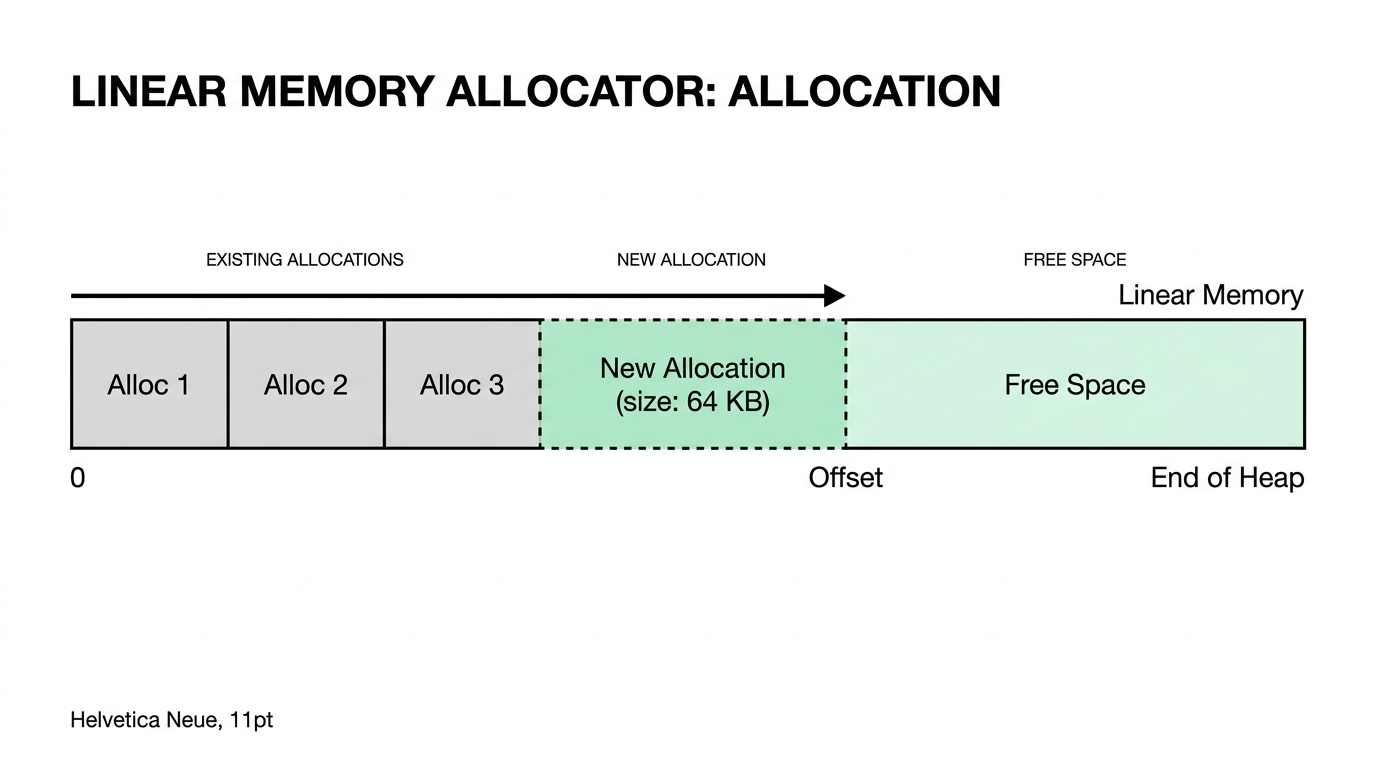
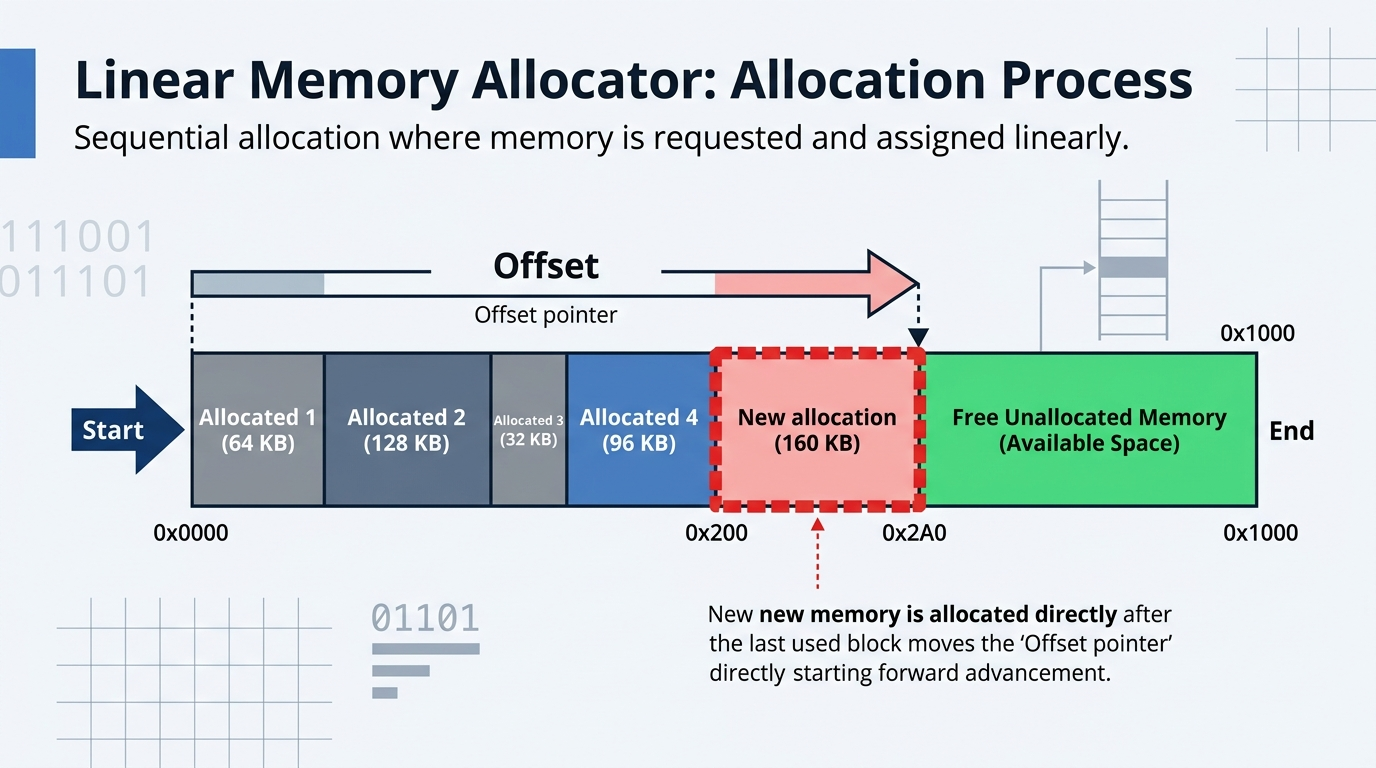
Revert "docs: streamline README explanations and update diagrams with minimalist aesthetic"
This reverts commit 22b56b124a4cca20028401d10c866dddecf25a6f.

diff --git a/README.md b/README.md
@@ -12,169 +12,192 @@
 &nbsp;&nbsp;&nbsp;&nbsp;&nbsp;&nbsp;&nbsp;&nbsp;[Space complexity](#space-complexity)  <br/> 
 &nbsp;[Summary](#summary)  <br/> 
 &nbsp;[Last thoughts](#last-thoughts)  <br/> 
-&nbsp;[Future work](#future-work)  <br/> 
-
 # Introduction
-Dynamic memory allocation on the heap via standard `malloc` and `free` is flexible but carries performance overhead. This project implements custom C++ memory allocators that manage pre-allocated memory arenas to achieve faster, more predictable allocations. The goal is to understand how common allocators work, what trade-offs they offer, and compare their performance.
+When applications need more memory this can be allocated in the heap (rather than in the stack) in _runtime_. This memory is called 'dynamic memory' because it can't be known at compile time and its need changes during the execution. Our programs can ask for dynamic memory usin 'malloc'. Malloc returns an address to a position in memory where we can store our data. Once we're done with that data, we can call 'free' to free the memory and let others processes use it.
+
+For this project I've implemented different ways to manage by ourselves dynamic memory in C++.This means that instead of using native calls like 'malloc' or 'free' we're going to use a custom memory allocator that will do this for us but in a more efficient way.
+The goal, then, is to understand how the most common allocators work, what they offer and compare them to see which one performs better.
 
 # Build instructions
 
-```bash
-git clone https://github.com/Sudheendra18/custom-memory-allocator.git
-cmake -S . -B build 
+```c
+git clone https://github.com/Sudheendra18/memory-allocators.git
+cmake -S memory-allocator -B build 
 cmake --build build
 ```
 
 # What's wrong with Malloc?
-* **General purpose:** Designed to handle any allocation size (from 1 byte to gigabytes), leading to bookkeeping overhead and fragmentation.
-* **Slow syscalls:** When expanding the heap, `malloc` transitions between user and kernel mode (`brk`/`mmap`), which is slow and non-deterministic.
+* **General purpose**: Being a general purpose operation means that it must work in all cases (from 1byte to 1GB or more...). For this reason the implementation is not as efficient as it could be if the needs were more specific.
+* **Slow**: Sometimes, when allocating memory, malloc needs to change from user to kernel mode to get more memory from the system. When this happens, malloc turns out to be super slow!
 
 # Custom allocators
-Because programs often have predictable allocation patterns, custom allocators achieve superior performance by pre-allocating large memory arenas:
-* **Fewer Mallocs:** Pre-allocate once to eliminate runtime system calls.
-* **Specialized Data Structures:** Use lightweight tracking structures (offsets, intrusive linked lists) tailored to specific workloads.
-* **Domain Constraints:** Imposing constraints (e.g., fixed sizes, LIFO order) enables fast $O(1)$ operations.
+Because every program has specific needs, it makes no sense to use a general purpose allocator. We can choose the right allocator that works best for us. This way we can increase our **performance**.
+
+In general, custom allocators share some features:
+* **Low number of mallocs**: Any custom allocator tries to keep the number of mallocs low. To do that, they malloc _big chunks of memory_ and then, they manage this chunk internally to provide smaller allocations.
+* **Data structures**: Secondary data structures like _Linked Lists_, _Trees_, _Stacks_ to manage these big chunks of memory. Usually they are used to keep track of the allocated and/or free portions of memory to _speed up_ operations.
+* **Constraints**: Some allocators are very specific and have constraints over the data or operations that can be performed. This allows them to achieve a high performance but can only be used in some applications. 
 
 ## Linear allocator
-The simplest allocator. Maintains an offset pointer at the beginning of the memory arena and increments it sequentially for each allocation.
+This is the simplest kind of allocator. The idea is to keep a pointer at the first memory address of your memory chunk and move it every time an allocation is done. In this allocator, the internal fragmentation is kept to a minimum because all elements are sequentially (spatial locality) inserted and the only fragmentation between them is the alignment.
 
 ### Data structure
-Requires only an offset pointer to track the current allocation boundary. No per-allocation metadata or headers are needed.
+This allocator only requires a pointer (or an offset) to tell us the position of the last allocation. It doesn't require any extra information or data structure.
 
 ![Data structure of a Linear Allocator](docs/images/linear1.png)
 
 _Complexity: **O(1)**_
 
 ### Allocate
-Simply moves the offset pointer forward by the requested allocation size.
+Simply move the pointer (or offset) forward.
 
 ![Allocating memory in a Linear Allocator](docs/images/linear2.png)
 
 _Complexity: **O(1)**_
 
 ### Free
-Individual allocations cannot be freed. The entire memory arena is reset all at once in $O(1)$.
-
----
+Due to its simplicity, this allocator doesn't allow specific positions of memory to be freed. Usually, all memory is freed together.
 
 ## Stack allocator
-A LIFO (Last-In, First-Out) allocator. Similar to the Linear Allocator, but allows allocations to be rolled back in reverse order.
+This is a smart evolution of the Linear Allocator. The idea is to manage the memory as a Stack. So, as before, we keep a pointer to the current memory address and we move it forward for every allocation. However, we also can move it backwards when a free operation is done. As before, we keep the spatial locality principle and the fragmentation is still very low.
 
 ### Data structure
-Maintains an offset pointer tracking the top of the stack. Each allocation is preceded by a small header containing block size and padding metadata.
+The allocator only needs a pointer (or offset) to keep track of the current top of the stack. Rollback points are stored outside the managed block, so allocations do not need a per-allocation header in the returned memory. This avoids wasting padding space and keeps the user-facing memory contiguous.
 
 ![Data structure of a Stack Allocator](docs/images/stack1.png)
 
-_Complexity: **O(N)** space overhead for headers_
+_Complexity: **O(N*H) --> O(N)**_ where H is the Header size and N is the number of allocations
 
 ### Allocate
-Advances the offset pointer forward and stores an allocation header right before the returned memory block.
+Simply move the pointer (or offset) forward and place a header right before the memory block indicating its size.
 
 ![Allocating memory in a Stack Allocator](docs/images/stack2.png)
 
 _Complexity: **O(1)**_
 
 ### Free
-LIFO rollback. Reads the block header and restores the offset pointer back to the previous allocation boundary.
+Free is a LIFO rollback. The allocator restores the last saved offset and does not need to inspect any header stored in the allocation itself.
 
 ![Freeing memory in a Stack Allocator](docs/images/stack3.png)
 
 _Complexity: **O(1)**_
 
----
-
 ## Pool allocator
-Splits a memory arena into equal, fixed-size chunks. It offers fast allocations and deallocations with zero internal fragmentation for uniform objects.
+A Pool allocator is quite different from the previous ones. It splits the big memory chunk in smaller chunks of the same size and keeps track of which of them are free. When an allocation is requested it returns the free chunk size. When a freed is done, it just stores it to be used in the next allocation. This way, allocations work super fast and the fragmentation is still very low.
 
 ![Splitting scheme in a Pool Allocator](docs/images/pool1.png)
 
 ### Data structure
-Tracks free blocks using a singly linked list. To eliminate extra memory overhead, this list is **intrusive**—the `NEXT` pointers are stored directly inside the unused memory chunks themselves.
+To keep track of the free blocks of memory, the Pool allocator uses a Linked List that links the address of each free memory block. 
 
 ![Linked List used in a Pool Allocator](docs/images/pool2.png)
+
+To reduce the space needed, this **Linked List is stored in the same free blocks** (smart right?). However, this set the constraint that the data chunks must be at least as big as our nodes in the Linked List (so that, we can store the Linked List in the free memory blocks).
+
 ![In memory Linked List used in a Pool Allocator](docs/images/pool3.png)
 
-_Constraint: Chunk size must be at least as large as a pointer (`sizeof(void*)`)._  
-_Complexity: **O(1)**_
+_Complexity: **O(1)**_ 
 
 ### Allocate
-Pops the first free block from the head of the linked list.
+An allocation simply means to take (pop) the first free block of the Linked List.
 
 ![Allocation in a Pool Allocator](docs/images/pool4.png)
+
+The linked list doesn't have to be sorted. Its order its determined by the how the allocations and free are done.
+
 ![Random State of a Linked List in a Pool Allocator](docs/images/pool5.png)
 
 _Complexity: **O(1)**_
 
 ### Free
-Pushes the freed block back onto the head of the linked list.
+Free means to add (push) the freed element as the first element in the Linked List.
 
 _Complexity: **O(1)**_
 
----
-
 ## Free list allocator
-A general-purpose allocator that imposes no restrictions on allocation order, deallocation order, or block sizes.
+
+This is a general purpose allocator that, contrary to the others, doesn't impose any restriction. It allows allocations and deallocations to be done in any order. For this reason, its performance is not as good as its predecessors. Depending on the data structure used to speed up this allocator, there are two common implementations: one that uses a Linked List and one that uses a Red black tree.
 
 ### Linked list data structure
-Maintains an address-sorted linked list of free memory blocks and their sizes. Each allocated block is prefixed with an allocation header to track size and alignment.
+As the name says, this implementation uses a Linked List to store, in a sorted manner, the start address of each free contiguous block in memory and its size.
+When an allocation is requested, it searches in the linked list for a block where the data can fit. Then it removes the element from the linked list and places an allocation header (used on deallocations) right before the data (as we did in the Stack allocator).
+On deallocations, we get back the allocation header to know the size of the block that we are going to free. Once we free it we insert it into the sorted linked list and we try to merge contiguous memory blocks together creating bigger blocks.
+
+*Notes: My implementation has some constraints on the size and alignment of the data that can be allocated using **this** allocator. For example, the minimum size that can be allocated should be equals or bigger than the size required of a Free Node. Otherwise, we would be wasting more space in meta-data than in real data (Something similar happens with the alignment) These constraints are related with my implementation. A better implementation would probably handle these cases. I decided not to do so because performance would be drastically affected. In these cases its probably better to use a different allocator.*
 
 ![Data structure in a Free list Allocator](docs/images/freelist_seq1.png)
 
-_Complexity: **O(M)** space overhead where M is the number of allocated blocks._
+_Complexity: **O(N*HF + M*HA)--> O(M)**_ where N is the number of free blocks, HF is the size of the header of free blocks, M the number of allocated blocks and HA the size of the header of allocated blocks
+
 
 ### Linked list Allocate
-Searches the free list using **First-Fit** (first block that fits) or **Best-Fit** (smallest block that fits, minimizing fragmentation). The selected block is split, returning the requested size and keeping the remainder in the free list.
+ When an allocation is requested, we look for a block in memory where our data can fit. This means that we have to iterate our linked list until we find a block that has a size equal or bigger than the size requested (it can store this data plus the allocation header) and remove it from the linked list. This would be a **first-fit** allocation because it stops when it finds the first block where the memory fits. There is another type of search called **best-fit** that looks for the free memory block of smaller size that can handle our data. The latter operation may take more time because is always iterating through all elements but it can reduce fragmentation.
 
 ![Allocating in a Free list Allocator](docs/images/freelist_seq2.png)
 
-_Complexity: **O(N)** where N is the number of free blocks._
+_Complexity: **O(N)**_ where N is the number of free blocks 
 
 ### Linked list Free
-Reads the block header, inserts the block back into the address-sorted free list, and merges adjacent contiguous free blocks (**Coalescence**) in $O(1)$ to prevent fragmentation.
+First of all we get back the information about the allocation from the header. Then, we iterate the Linked List to intert the free block in the right position (because is sorted by address). Once we've inserted it, we merge contiguous blocks. We can merge in _O(1) because our Linked List is sorted. We only need to look at the previous and next elements in the linked list to see if we can merge this contiguous blocks. This operation of merging contiguous memory blocks to create bigger blocks is called _Coalescence_
+If we used instead a Sorted Linked List of free and allocated blocks, the complexity would be *O(1)* but the allocation compleixity would be *O(N) where N is the number of free and allocated blocks and space complexity would be much higher. When we free a memory block we also look at the previous and next blocks to see if we can merge them into one bigger block. 
 
 ![Freeing in a Free list Allocator](docs/images/freelist_seq3.png)
 
-_Complexity: **O(N)** search + **O(1)** merge._
+_Complexity: **O(N)**_ where N is the number of free blocks
 
 ### Red black tree data structure
-Using a Red-Black Tree keyed by size reduces search complexity from $O(N)$ to $O(\log N)$ while enabling fast Best-Fit allocation. An auxiliary doubly linked list maintains address order for $O(1)$ coalescence.
+The purpose of using a Red black tree is to speed up allocations and deallocations. In the Linked List (or sequential) implementation every time an operation was made we needed to iterate the Linked List. This was O(N) in all cases.
 
----
+Using Red Black trees we can reduce its complexity to O(log N) while keeping space complexity quite low because the tree data is stored inside the free memory blocks. In addition, this structure allows a **best-fit** algorithm to be used, reducing the fragmentation and keeping performance. However, an additional sorted Doubly Linked list is required to store allocated and free elements in order to be able to do coalescence operations in O(1).
+This implementation is the most common and most used in real systems because it offers high flexibility while keeping performance very high.
 
 # Benchmarks
-Benchmarked with varying operation counts using a fixed block size of 4,096 bytes.
+Now its time to make sure that all the effort in designing and implementing custom memory allocators is worth. 
+I've made several benchmarks with different block sizes, number of operations, random order, etc. The time benchmark measures the time execution that takes initializing the allocator 'Init()' (malloc big chunk, setup additional data structures...) and until the last operation (allocation or free) is performed.
+
+Here I'm only showing what I believe is relevant for the goal of this project.
 
 ## Time complexity
-* **Malloc:** Slowest allocator ($O(N)$) due to kernel transitions and general-purpose bookkeeping.
-* **Free List:** ~3x faster than malloc while remaining general-purpose ($O(N)$).
-* **Pool, Stack, Linear:** Exhibit near-instantaneous runtime. (Initial slopes reflect one-time `Init()` arena setup).
+* **Malloc** is without doubt the **worst allocator**.Due to its general and flexible use. _**O(n)**_
+* **Free list allocator** is **A much better choice than malloc** as a general purpose allocator.It uses Linked List to speed up allocations/free. It's about three times better than malloc _**O(n)**_
+
+The next allocator are even better BUT they are no longer general purpose allocators. They **impose restrictions** in how we can use them:
+* **Pool allocator** forces us to always allocate the same size but then we can allocate and deallocate in any order. The complexity of this one is slightly better than the free list allocator, wait what? The complexity of the pool allocator was supposed to be constant not linear! And that's true. What its happening here is that the initialization of the additional data structure (the linked list) is _**O(n)**_. It has to create all memory chunks in then linked them in the linked list. This operation is hiding the truly complexity of the allocation and free operations that is _**O(1)**_.  So, take into account to initialize the Pool allocator (and all the allocators in general) before to avoid this kind of behaviors.
+* **Stack allocator** can allocate any size, but deallocations must be done in a LIFO fashion with a _**O(1)**_ complexity. In the chart the complexity is not completely constant due to init function that has to allocate the first big chunk of memory, similarly as before in the pool allocator.
+* **Linear allocator** is the simplest and the best performant allocator with a _**O(1)**_ complexity but its also the most restrictive because single free operations are not allowed. As with the stack, the complexity doesn't look completely constant due to the init function.
 
 ![Time complexity of different allocators](docs/images/operations_over_time.png)
 
-Excluding the one-time `Init()` setup clearly demonstrates true constant $O(1)$ runtime for Linear, Stack, and Pool allocators:
+In the next chart we can see that if we don't include the Init() function in the benchmark, the overall execution time is reduced and as a consequence we can effectively see that the Linear, Stack and Pool allocators are constant while malloc and free list are clearly linear. The free list implementation using black tree can reduce the complexity to _**O(log n)**_ and therefore its position in the chart would be between the pool allocator and the free list.
 
-![Time complexity of different allocators without Init](docs/images/operations_over_time_no_init.png)
+![Time complexity of different allocators](docs/images/operations_over_time_no_init.png)
+
+_Note: The time complexity (in general) scales following a linear fashion regarding the size of the allocation request.
 
 ## Space complexity
-All allocators scale linearly ($O(N)$) with total requested memory, as metadata headers represent a negligible fraction of large allocations.
+As we can see, even that the space complexity for each allocator is slightly different(due to constants), in the end, all of them have the same space complexity **O(N)**. It is very clear, then, why when denoting big O, constants can be ignored: because its weight in the overall equation is very low when N grows.
 
 ![Space complexity of different allocators](docs/images/operations_over_space.png)
 
----
-
 # Summary
-* **Linear Allocator:** Best when all data has a common lifetime and can be freed together (e.g., per-frame game data).
-* **Stack Allocator:** Best for scoped or nested allocations freed in reverse LIFO order.
-* **Pool Allocator:** Best for high-frequency objects of uniform size (e.g., game entities, particles).
-* **Free List Allocator:** General-purpose allocator for arbitrary sizes and lifetimes where `malloc` is too slow.
+This is a brief summary describing when you should use each allocator. From more restrictive and efficient allocators to less efficient and general.
+
+* **Linear allocator**. If your data does not follows any specific structure. However, there's a common behavior in time: all data "expires" after a certain time and then is no longer useful and thus can be freed. Think about games for example, you can allocate data in one frame using a this allocator and free all data at the start of the next frame.  
+* **Stack allocator**. The same as the Linear allocator but think if it useful to free elements in a LIFO fashion.
+* **Pool allocator**. Your data has definitely a structure. All elements of your data have the same size. This is your choice, fast and no fragmentation.
+* **Buddy allocator** (_Not implemented here_). Your data is organized in exponential sizes power-of-two (1,2,4,8,16,32...). This allocator performs extremely well when data is structure in that way, being fast and wasting little space.
+* **Free list allocator**. No structure or common behavior. This allocator allows you to allocate and free memory as you wish. This is a general purpose allocator that works much better than malloc, but is not as good as the previous allocators, given its flexibility to work in all situations.
 
 # Last thoughts
-* Avoid dynamic memory allocations during performance-critical loops whenever possible.
-* Specific-purpose allocators (**Linear, Stack, Pool**) drastically outperform general-purpose ones (**Free List, Malloc**).
-* Choose the most constrained allocator that fits your data access patterns.
+* Avoid dynamic memory as much as possible. Its behavior is unexpected and a source of problems
+* If you are worried about performance and your application uses dynamic memory, think about using a custom allocator instead of malloc
+* Try to understand your data and its behavior to choose the right allocator for you. Specific allocators (that impose restrictions on how we can structure/use our data) are far more better than the generic ones. We saw a huge gap between the specific purpose allocator: **Linear, Stack and Pool** and the general purpose: **Free list and Malloc**
+* Always choose a less restrictive (or more general) allocator if unsure. If you later see that your data is structured you can always change to use a more restrictive one.
 
 # Future work
-* Implement 8-byte alignment optimization to eliminate headers.
-* Implement a Red-Black Tree Free List allocator ($O(\log N)$).
-* Implement Buddy and Slab allocators.
-* Benchmark cache misses and spatial locality.
+* Implement every memory allocator assuming that the alignment is always 8 bytes and thus everything is always align (we no longer need headers).
+* Implement a Free list allocator using Red Black Trees to improve performance from O(N) to O(log N)
+* Implement a Buddy allocator
+* Implement a Slab allocator
+* Benchmark internal fragmentation
+* Benchmark spatial location (cache misses)
